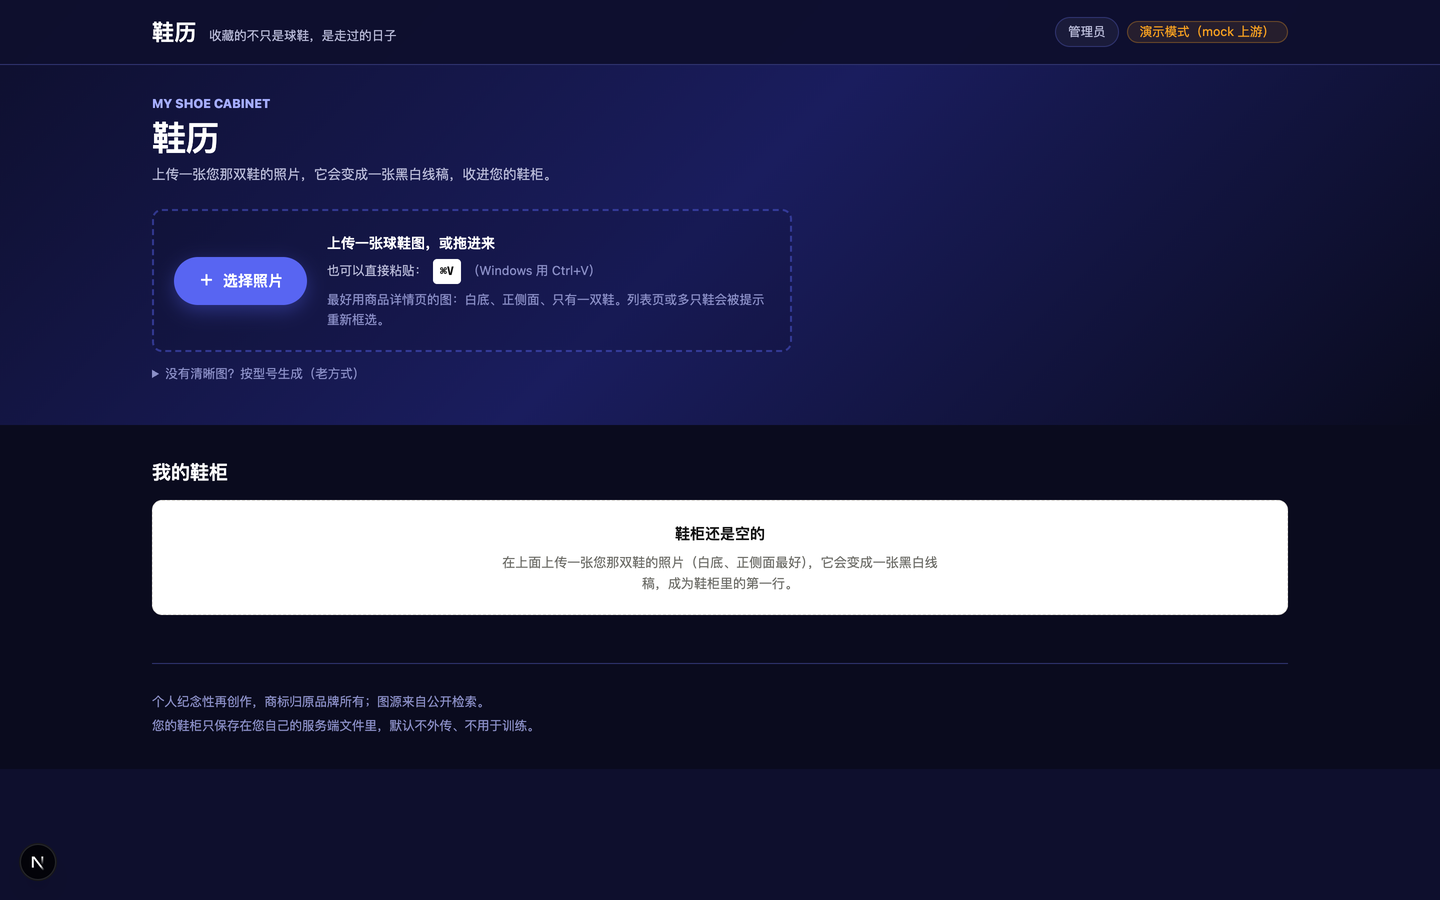
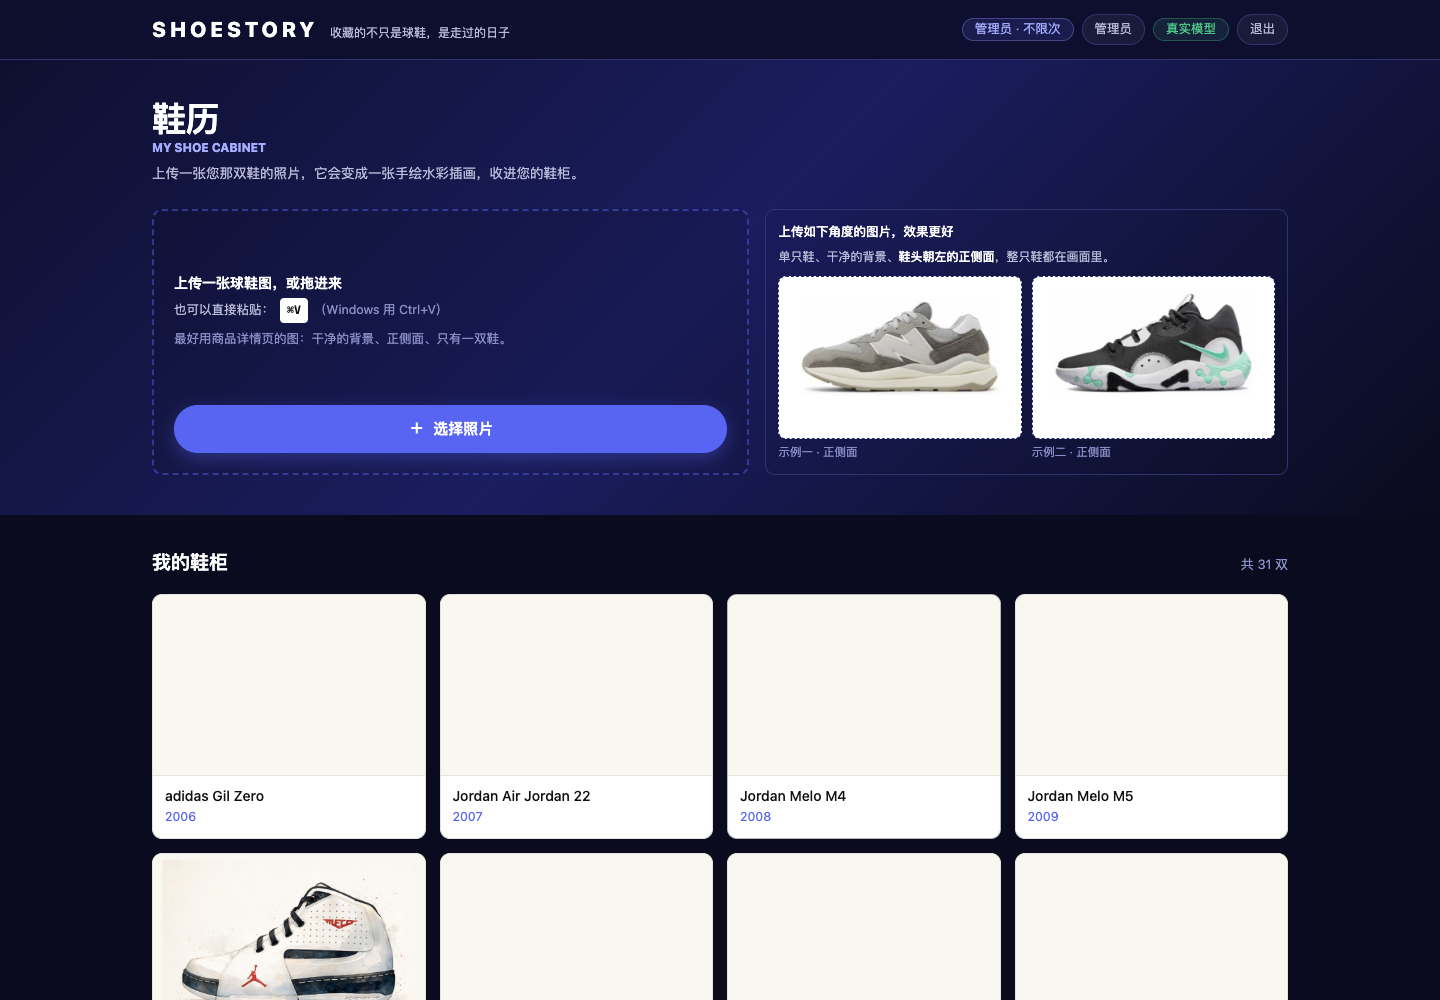
README 重写：换成水彩风格，并补上"为什么换风格"和"质检分虚高"两个复盘
配图 6 张全部重拍（真机 + 真实模型跑一遍完整流程，水彩版）：

  01-home            首页（上传入口 + 标准角度示例）
  02-crop            裁切确认（蓝框）
  03-inspect         体检识别结果
  04-artwork         画好的水彩插画
  05-archive-dialog  归档弹窗（型号可改）
  06-cabinet         鞋柜网格
  另删掉两张 9-23 的黑白版占位图（05-confirm / 06-archive）

文案改动：
- 开篇、六步说明全部改到水彩（去掉"填实 Logo"这类黑白专属的描述）
- **替换了原来那个"看不见的 Logo"复盘**，换成更有价值的两个：
  ① 「当风格逼着模型去做二值决策」—— 黑白线稿的"该不该填黑"是个非黑即白的选择，
     而模型按颜色对比判断，同色系必错；三轮修补"修好一类坏掉另一类"
     （提示词里的例子被当模板 → 每双鞋头凭空多一块黑）。换成水彩后同一批鞋 14 张一次成型。
     结论写成了一句可复用的判断：**连人都觉得"看情况"的判断，别指望模型给稳定答案，
     更别把它设成硬门槛。**
  ② 「质检分的虚高，和 verdict」—— 反向对照（人为把色相旋转 160°、饱和度压到 12%）
     证明逐项分数是压缩的（0.94 → 0.90，仍高于阈值），真正分开的是判官的 verdict。
     所以改成"分数用来排序、verdict 用来定成败"。
- 取舍表新增一条：**输入规范用"提示"而不是"拦截"**（就是"小图传不上去"那次反馈）
- "到什么程度""还不完善"同步更新；诚实写明**配色保真度目前无法自动判定**是最大弱点
- 全文无金额（按之前的约定）

仓库状态：main 快进合并到水彩线（`git merge --ff-only`，无多余合并提交），
版本号 → 0.3.0-watercolor，新增标签 v3.0-watercolor。

diff --git a/README.md b/README.md
@@ -1,42 +1,40 @@
-# 鞋历
+# 鞋历 ShoeStory
 
-**把一双鞋，变成一张黑白线稿，收进自己的鞋柜。**
+**上传一张球鞋照片，它会把鞋画成一张手绘水彩插画，收进你自己的鞋柜。**
 
 > 收藏的不只是球鞋，是走过的日子。
 
-![一张画好的球鞋线稿](docs/screenshots/04-artwork.png)
+![画好的水彩插画](docs/screenshots/04-artwork.png)
 
-这是我做的一个小工具：**上传一张球鞋照片，它会认出这是哪双鞋，把它画成一张干净的黑白线稿，存进你自己的鞋柜。**
-
-起因很朴素——家里那双穿旧的鞋，想在数字世界里留个样子。但网上搜到的图都不是"我这一双"：角度不对、背景很杂、常常是两只鞋的合影。干脆换个思路：图由用户自己给，剩下的交给工具。
+起因很朴素——家里那双穿旧的鞋，想在数字世界里留个样子。但网上搜到的图都不是"我这一双"：角度不对、背景很杂、常常是两只鞋的合影。干脆换个思路：**图由用户自己给，剩下的交给工具**。
 
 ---
 
 ## 它现在能做什么
 
-![首页：上传入口与鞋柜](docs/screenshots/01-home.png)
+![首页：上传入口与标准角度示例](docs/screenshots/01-home.png)
 
-**① 上传**　拖拽、粘贴（⌘V）、或者从相册里选一张。建议用商品详情页那种白底、正侧面的图。
+**① 上传**　拖拽、粘贴（⌘V）、或者从相册里选一张。旁边放了两张标准角度的示例图——先让人知道"什么样的图能出好效果"。
 
 **② 框选**　自动给出建议框，觉得不准可以拖着改——就像换头像那样。
 
 ![裁切确认](docs/screenshots/02-crop.png)
 
-**③ 认鞋**　一次调用同时判断：这是不是鞋、是不是只有一双、品牌型号、Logo 是什么形状、鞋身上有哪些字。
+**③ 认鞋**　一次调用同时判断：这是不是鞋、是不是只有一双、拍摄角度对不对、整只鞋有没有都在画面里、品牌型号、Logo 是什么形状、鞋身上有哪些字。
 
 ![识别结果](docs/screenshots/03-inspect.png)
 
-**④ 画线稿**　约 30–60 秒。识别到的 Logo 会用实心黑块填上；鞋身文字"宁缺勿错"——认不出来宁可不写，写错反而伤纪念感。
+**④ 画插画**　约 30–60 秒。期间先给一版草稿预览（本机算的，带"草稿预览"角标），正式稿再淡入替换——把"干等"变成"有过程"。
 
-**⑤ 你说了算**　画好之后只有两个选择：满意就收进鞋柜，不满意就再画一张。质检在后台照常跑，但不拿来打扰你。
+**⑤ 你说了算**　画好之后只有两个选择：满意就收进鞋柜，不满意就再画一张。**不满意时可以选一个方向**（配色不对 / 鞋型不太像 / 细节丢太多 / 太像线稿 / 画面太脏 / 太黑 / 太淡），下一次就重点改那一处。质检在后台照常跑，但不拿来打扰你。
 
-![效果确认](docs/screenshots/05-confirm.png)
+**⑥ 归档**　弹窗里记一笔型号、时间与故事。型号是识别出来的，认错了直接改。
 
-**⑥ 归档**　记一笔时间和故事，之后随时能翻。
+![归档](docs/screenshots/05-archive-dialog.png)
 
-![归档](docs/screenshots/06-archive.png)
+鞋柜是一码一柜：数据存在对象存储里，换设备、刷新页面都在，**别人看不到你的鞋**。
 
-鞋柜是一码一柜：数据存在对象存储里，换设备、刷新页面都在，别人看不到你的鞋。
+![鞋柜](docs/screenshots/06-cabinet.png)
 
 ---
 
@@ -51,28 +49,50 @@
 
 也就是说：**问题不在"画"，在"取材"**。一张角度不对、带背景的参考图，会把结果带得更差——搜索不仅没帮忙，还经常帮倒忙。
 
-于是第二版只做一件事：**请用户自己给一张图**。产品文案也顺着改了——引导用户用商品详情页的原图（白底、正侧面、只有一双），并在上传后给一个可拖拽的框，让"截错了、拍歪了"这类问题当场解决。
+于是第二版只做一件事：**请用户自己给一张图**，并把"截错了、拍歪了"这类问题用"可拖拽的框"当场解决。
 
 （完整的证据与取舍记在 [`docs/决策记录-V2-输入与风格.md`](docs/决策记录-V2-输入与风格.md)。）
 
 ---
 
-## 一次失败的复盘：照片里看不见的 Logo，被我的规则判了错
+## 一次失败的复盘：当风格逼着模型去做"二值决策"
 
-有张 Air Jordan 36 的商品图，拍照角度看不到飞人标志。模型很老实：那个位置画了个装饰符号。而我的质检规则写着"品牌 Logo 必须实心填色"——于是判定不合格，自动重画一次还是不合格，最后直接告诉用户"这次没画好"。
+这条踩坑值得单独说，因为它最后导致**整个主风格被换掉**。
 
-用户连图都没看到，钱已经花了。
+最初的主风格是**黑白线稿**：纯黑白的线条画，Logo 用实心黑块填上。看起来简单，但里面藏着一个要命的设计：**"这块要不要填黑"是一个非黑即白的选择**。
 
-复盘下来是两件事：
+而模型是靠**照片里的颜色对比**来判断的。于是同一个品牌，白鞋上的深色 Logo 它填了，黑鞋上的黑色 Logo 它就不填——它看不出那是个"标记"。同一批测试里，同一款鞋因为配色不同，结果一个实心一个空心。
 
-1. **规则没考虑"照片里本来就看不清"这种情况。** 现在 Logo 只按照片里**看得见的**来判断：看得见就要求画准、画实；看不见就不要求，同时明确禁止模型凭空编一个 Logo。
-2. **失败不该是个死胡同。** 现在质检分成两类：
-   - 能确定性判断的（画布比例、纯二值、白底、有没有排线、有没有整块涂黑）→ 继续当门槛，不过就自动重画一次；
-   - 主观判断的（Logo 清晰度、鞋带实心度、文字可辨度）→ 只用来决定"要不要再画一张"，**不再拦着不交付**。
+接下来是三轮修修补补：
 
-不管哪种情况，只要画出来了，就一定交给用户自己判断。
+1. 加一张"品牌标志知识表"，让**代码**而不是模型来决定必须填——好了一些；
+2. 但提示词里我举了个例子（"深色鞋头盖"），模型把它当成了模板，**每双鞋的鞋头都凭空多出一块黑**；
+3. 把例子删掉、把"黑色占比"这种凑数目标也删掉——这批鞋好了，可另一批（浅色鞋）又变得太轻。
 
-同一张图重跑：**一次通过，0.899 分。** 另一张浅棕色的空军一号两次通过，0.9655 分。
+**每修好一类，就坏掉另一类。** 复盘时才想明白：问题不在规则写得对不对，而在**我把一个连续的判断硬塞进了一个二值的框架里**——纯黑白没有中间地带，任何一点犹豫都只能表现为"整体崩"。
+
+所以后来换了**手绘水彩**：颜色是连续的，模型不需要在"填/不填"之间做选择，同色系的鞋、深浅不同的鞋都天然成立。同一批鞋重跑，**14 张全部一次成型**——包括黑白线稿里怎么调都画不好的那几双（白底白标的 Stan Smith、白鞋面配白底的 PG4、纯线描的 Melo 5.5）。
+
+这一段留下的教训写进了代码注释：**如果一个判断连人都觉得"看情况"，就别指望模型给稳定答案，更别把它设成硬门槛。**
+
+---
+
+## 另一件事：质检分的"虚高"，和 `verdict`
+
+换到水彩之后，我给质检加了一组反向对照——**故意把画稿改坏，看质检能不能发现**：
+
+| 输入 | 鞋型分 | 风格分 | 判官结论 |
+| --- | --- | --- | --- |
+| 正常水彩 | 0.96 | 0.94 | pass |
+| 把色相整体旋转 160°（配色完全错了） | 0.96 | 0.90 | **fail** |
+| 把饱和度压到 12%（褪成灰） | 0.96 | 0.90 | **fail** |
+| 换成黑白线稿 | 0.58 | 0.02 | **fail** |
+
+发现问题了：**逐项分数是压缩的**——配色全错，风格分也只从 0.94 掉到 0.90，加权总分仍高于阈值。真正分开的，是判官自己那个 `verdict` 字段，而且它还能准确说出"原鞋是白／红／深藏青，插画改成了亮绿、蓝绿与橄榄绿"。
+
+于是判定逻辑改成：**分数用来排序，`verdict` 用来定成败**。
+
+顺带说一句更早的教训：在这之前，我一度很依赖判官给的分——直到它给一张"Logo 没填"的画稿打了满分（它的提示词里有一条"原图看不到标识就按满分处理"的宽容条款，被过度套用了）。**能用量化指标判断的事，不要交给模型说"我觉得合格"。**
 
 ---
 
@@ -81,7 +101,8 @@
 | 取舍 | 为什么 |
 | --- | --- |
 | **用固定流程 + 代码状态机，不让模型自由发挥** | 这个产品的流程是确定的（识别→画→检→归档），没有需要模型"自己想"的环节。让它自由选工具只会带来不可控的开销和结果 |
-| **质检判定交给代码，模型只负责打分** | 画布是不是 3:2、是不是纯黑白、线条有没有跑偏，这些能用代码量化的就不该让模型"自己说自己合格" |
+| **质检判定交给代码——但只限能量化的部分** | 画布是不是 3:2、背景留白够不够、轮廓和原鞋重不重合，这些能用代码算的就该用代码；主观的"像不像水彩"交给独立判官，并且把它的结论（而不是它的分数）当判据 |
+| **输入规范用"提示"而不是"拦截"** | 一开始我设了"图片短边不够就拒收"——结果一张从手机截图里裁出来、画面明明很清楚的小图根本传不上去，界面上还没有任何反应。现在改成：尺寸不当门槛，只评估清晰度，糊了就提醒一句"换一张会更清楚"，**画不画仍然由用户定** |
 | **不用数据库，用带版本号的 JSON** | 单用户、数据量小（几十到几百条）、只需要"全量读 + 排序"。什么时候该换数据库也写清楚了 |
 | **质检信息不给用户看** | 用户要判断的是"这张我满不满意"，不是"鞋带实心度 0.38"。明细留在后台，出问题能查 |
 | **图形化描述尽量不做，能把话说清的就不堆术语** | ⬅ 这条是产品原则：能给用户一句人话，就不给他一个指标 |
@@ -94,12 +115,13 @@
 
 | 项 | 实测 |
 | --- | --- |
-| 出图时间 | **30–60 秒**（等待期间会先给一版草稿预览，避免干等） |
-| 质检分（阈值 0.80） | **0.899 / 0.927 / 0.9445 / 0.9655**（四张真图） |
-| 一次通过 | 四张里三张一次通过，第四张自动重画一次后通过 |
-| 自动化测试 | 后端 310 项、前端 33 项，另有类型检查与 lint；CI 会跑全套 |
+| 出图时间 | **30–60 秒**（等待期间先给草稿预览，避免干等） |
+| 一次成型率 | 换水彩之后，**14 张真图全部一次通过** |
+| 质检（阈值 0.82） | 0.947–0.9675；反向对照（人为改坏）全部被 `verdict` 拦下 |
+| 自动化测试 | 后端 **398** 项、前端 33 项，另有类型检查与 lint；CI 每推必跑 |
+| 中间产物 | 每次生成的原图、画布、骨架、模型原始返回、交付稿、逐项质检、上游调用次数，全部留档 |
 
-细节可以看 [`docs/阶段5上线记录-V2.md`](docs/阶段5上线记录-V2.md) 和三份原始报告 [`docs/smoke-report-v2-upload.md`](docs/smoke-report-v2-upload.md)、[`-AJ36`](docs/smoke-report-v2-AJ36.md)、[`-AF1`](docs/smoke-report-v2-AF1.md)。
+更多细节在 [`docs/`](docs/)：转向的决策记录、上线记录（含上线后发现的真实问题与修复），以及三份真图实测报告。
 
 ---
 
@@ -122,17 +144,19 @@ cd frontend && npm install && npm run dev     # http://localhost:3000
 
 ## 还不完善的地方
 
+- **配色保真度没法自动判定。** 我试过用"色相直方图重合度"来做，实测没有区分度——原鞋本身没颜色时（比如一双纯黑鞋）这个指标就是噪声，即使有颜色，同一批正确产出的取值也散得很开。所以配色这件事目前只能靠判官，而判官是有波动的。**这是这个项目当前最明显的一处弱点。**
+- **只支持正侧面的单只鞋。** 俯视、斜侧角、一张图里好几只鞋，画出来没法保证和实物一致、也破坏鞋柜的整齐，所以会被挡下来并说清怎么改。
 - **型号可能认错**：视觉模型也有看走眼的时候，归档标题可以自己改。
-- **浅色界面 / 特别长的截图**：自动框有时要给一点帮助，手动收一下框。
-- **低对比配色**（比如浅棕、纯白）偶尔需要画第二次。
 - **鞋身小字**走"宁缺勿错"，认不出来就不写。
-- **没有导出功能**：这版先不做，所以"导出时合成牛皮纸底"也跟着没做。
-- 冷启动：为了控制开销只开一个实例，久不访问后第一次打开会慢几秒。
+- **没有导出功能**：这版先不做。
+- **冷启动**：为了控制开销只开一个实例，久不访问后第一次打开会慢几秒（有自预热兜底）。
 
 ---
 
 ## 关于这个项目
 
-名字取"鞋"和"历"：一双鞋，一段经历。
+名字取"鞋"和"历"：一双鞋，一段经历。英文名 ShoeStory。
 
-技术上是 **FastAPI + Next.js**，模型用**火山方舟**（文本 / 视觉 / 图生图），部署在**火山引擎函数服务**上，画稿与档案存**对象存储**。项目过程中我做决策笔记，踩到的坑也记下来——像上面那个 Logo 规则的事，都留在 `docs/` 里。
+技术上是 **FastAPI + Next.js**，模型用**火山方舟**（文本 / 视觉 / 图生图），部署在**火山引擎函数服务**上，画稿与档案存**对象存储**。
+
+做这个项目的过程里，我留下两类东西：一是**决策记录**——为什么从"输入型号"改成"上传照片"、为什么换掉主风格，都带着当时的真实数据；二是**可复现的评测台**——同一批鞋、同一组指标，改前改后各跑一次对比。上面那两个复盘里的数字，都是从它跑出来的。
